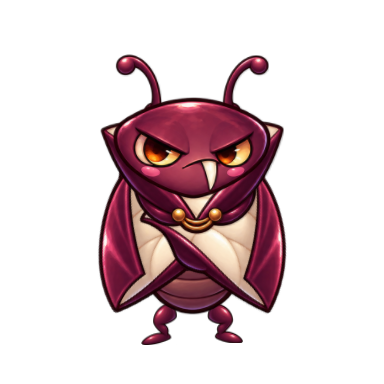
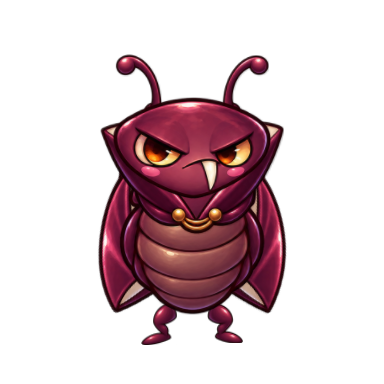
Fix Count cloak layering behind body in all poses

Changed region(s): [[0.3125, 0.5, 0.6875, 0.7812], [0.4688, 0.5, 0.5625, 0.5625]]

diff --git a/docs/concepts/count-rig.md b/docs/concepts/count-rig.md
@@ -25,8 +25,10 @@ zeigt weiterhin die isolierte Rig-Studie.
 Die Figur öffnet den Umhang aus getrennten Flächen. Das erhält die Identität
 von Entwurf C, ist aber eine neu gemalte modulare Fassung; die Ruhepose und
 die Überdeckung beim schnellen Schlag brauchen weiterhin gestalterische
-Abnahme. Der Stoff schlägt vor dem Körper vorbei; das Gesicht bleibt für die Lesbarkeit
-auch beim Schlag davor sichtbar. Noch nicht
+Abnahme. Beide Mantelteile (`LeftCloth` und `RightCloth`, `z_index = 0`)
+liegen hinter Füßen (`1`) und Körper (`2`); Kragen (`6`) und Gesicht (`8`)
+bleiben darüber. Die unterschiedlichen gemalten Formen und Bewegungen bleiben erhalten.
+Animationsspuren verändern diese Reihenfolge auch beim Schlag nicht. Noch nicht
 enthalten sind vollständige Lauf-/Treffer-/Todesanimationen oder ein neuer
 Schadensablauf. Die aktive Kampfkomponente taktet Warnung, Trefferzeit und
 Rig-Darstellung gemeinsam; das Rig entscheidet nicht selbst über Schaden.
@@ -64,9 +66,11 @@ Farbsatz vermeidet wechselnde Farben. Die Ausgangsgrafik wurde nicht nachbearbei
 
 ## Prüfung
 
-`tests/count_rig.gd` prüft gültige Knochenbindungen und Gewichtssummen, die
+`tests/extended/count_rig.gd` prüft gültige Knochenbindungen und Gewichtssummen, die
 Stoffgeometrie über 205 Zeitpunkte, unverzerrte Gesichtsachsen, unabhängige
-Instanzen, bewegliche Spitzen sowie Scrubbing und Pause. Kleinste gemessene
+Instanzen, bewegliche Spitzen sowie Scrubbing und Pause. Die gespeicherte Szene
+und der prozedurale Aufbau werden außerdem auf konstante Tiefenstaffelung bei
+Idle, Schritten, beiden Fächerschlägen, Stoß und Ring geprüft. Kleinste gemessene
 Dreiecksfläche: rund **65 %** ihrer Ausgangsfläche; kein Dreieck klappt um
 oder kollabiert in der untersuchten Folge.
 
